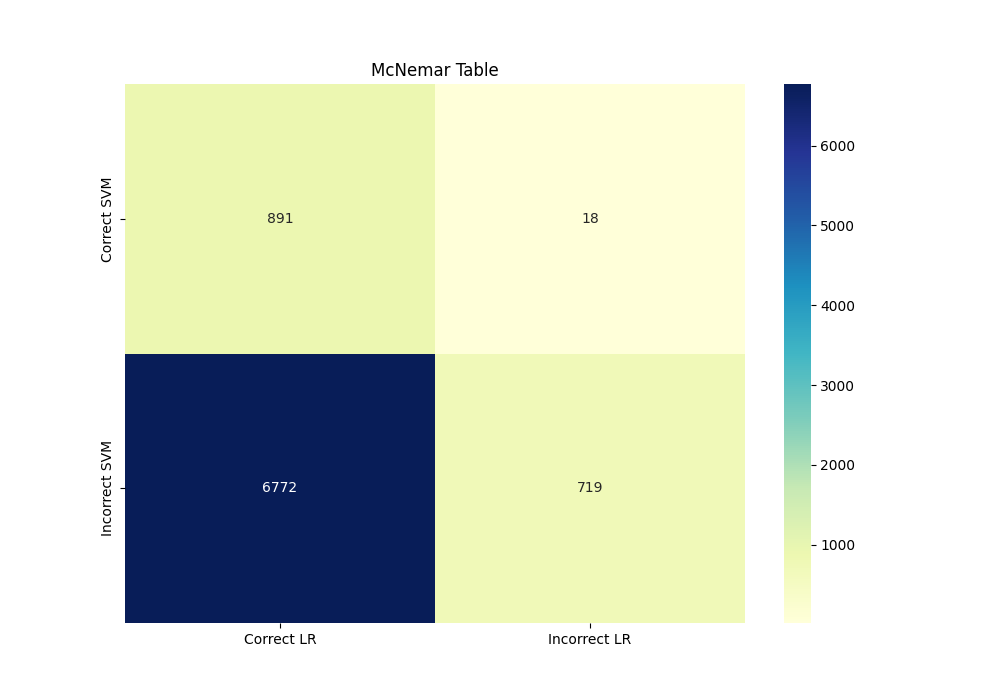
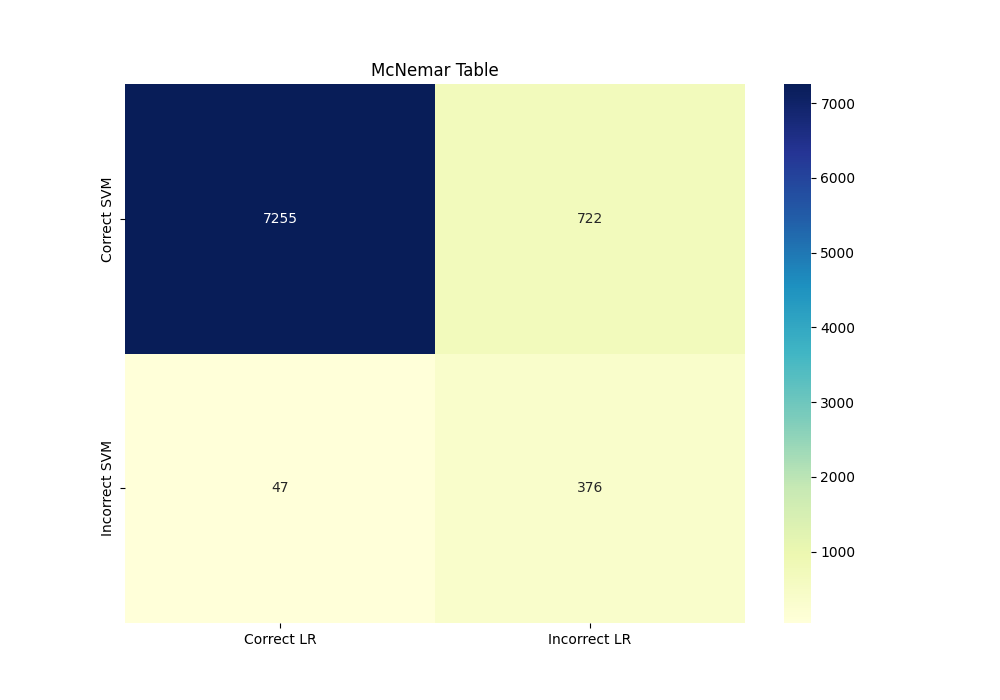
Corrected data split (normalization)
The execution time has now been reduced

diff --git a/mcnemar.py b/mcnemar.py
@@ -5,34 +5,43 @@ import mnist as mn
 
 data = mn.MNIST()
 
-X = data.digits
-y = data.labels
 
 # Create your models
 model_svm = SVC(C=10,gamma=0.001,kernel='rbf')  # SVM model
 model_rf = skl.LogisticRegression(C=0.01,penalty='l1',solver='liblinear',max_iter=300)  # Random Forest model
 
 
-train_x, test_x, train_y, test_y = train_test_split(X, y, test_size=0.2, random_state=42)
+train, test = train_test_split(data.get_dataframe(), test_size=0.2, random_state=42)        
+# Training labels
+y_train = train['label'].values
+# Training data (pixels)
+x_train = train.drop(labels=['label'], axis=1)
+# Testing labels
+y_test = test['label'].values
+# Testing data (pixels)
+x_test = test.drop(labels=['label'], axis=1)
+
+x_train = x_train / 255.0
+x_test = x_test / 255.0
 print("Data Splitted")
 
 # Fit the models
-model_svm.fit(train_x, train_y)
+model_svm.fit(x_train, y_train)
 print("SVM Fitted")
 
-model_rf.fit(train_x, train_y)
+model_rf.fit(x_train, y_train)
 print("Logistic Regression Fitted")
 
 # Make predictions
-pred_svm = model_svm.predict(test_x)
+pred_svm = model_svm.predict(x_test)
 print("SVM Predicted")
 
-pred_rf = model_rf.predict(test_x)
+pred_rf = model_rf.predict(x_test)
 print("Logistic Regression Predicted")
 
 # Compute the accuracy scores
-acc_svm = model_svm.score(test_x, test_y)
-acc_rf = model_rf.score(test_x, test_y)
+acc_svm = model_svm.score(x_test, y_test)
+acc_rf = model_rf.score(x_test, y_test)
 
 print(f"SVM Accuracy: {acc_svm}")
 print(f"Logistic Regression Accuracy: {acc_rf}")
@@ -43,7 +52,7 @@ print(f"Logistic Regression Accuracy: {acc_rf}")
 from mlxtend.evaluate import mcnemar_table
 from mlxtend.evaluate import mcnemar
 
-tb_svm = mcnemar_table(y_target=test_y, 
+tb_svm = mcnemar_table(y_target=y_test, 
                    y_model1=pred_svm, 
                    y_model2=pred_rf)
 

diff --git a/mnist.py b/mnist.py
@@ -596,6 +596,7 @@ class MNIST:
         # Testing data (pixels)
         x_test = test.drop(labels=['label'], axis=1)
 
+        # Normalize the data
         x_train = x_train / 255.0
         x_test = x_test / 255.0
 
